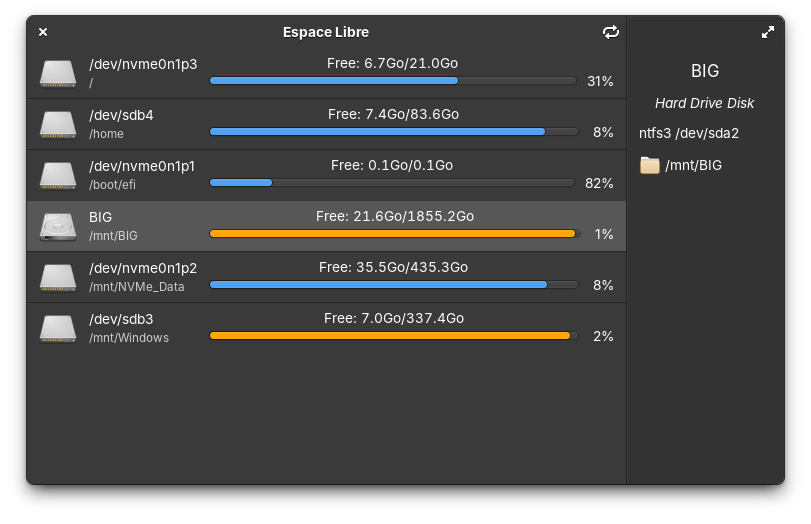
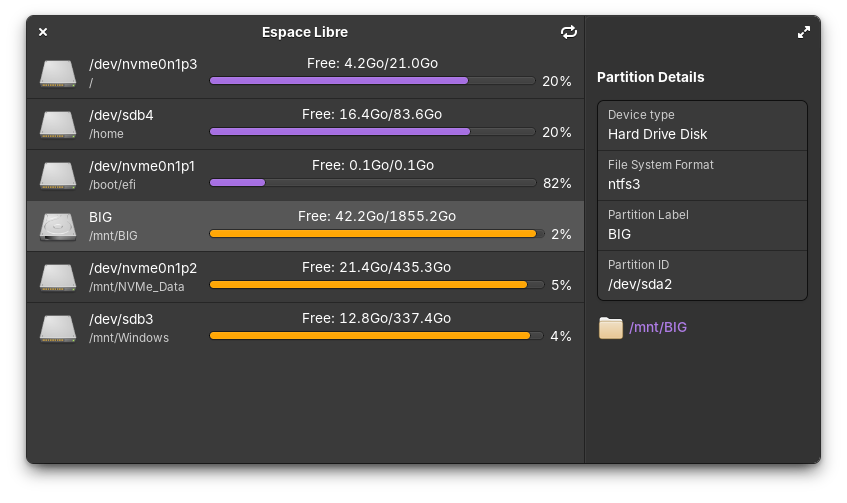
feat: Use PreferenceGroup instead of tooltips in selected view

diff --git a/data/Application.css b/data/Application.css
@@ -31,3 +31,13 @@ levelbar block.low  {
 mountPointRow .link:visited  {
   opacity: 1;
 }
+
+.property label.title {
+  opacity: 0.75;
+  font-size: 0.85rem;
+}
+
+.property label.subtitle {
+  opacity: initial;
+  font-size: initial;
+}